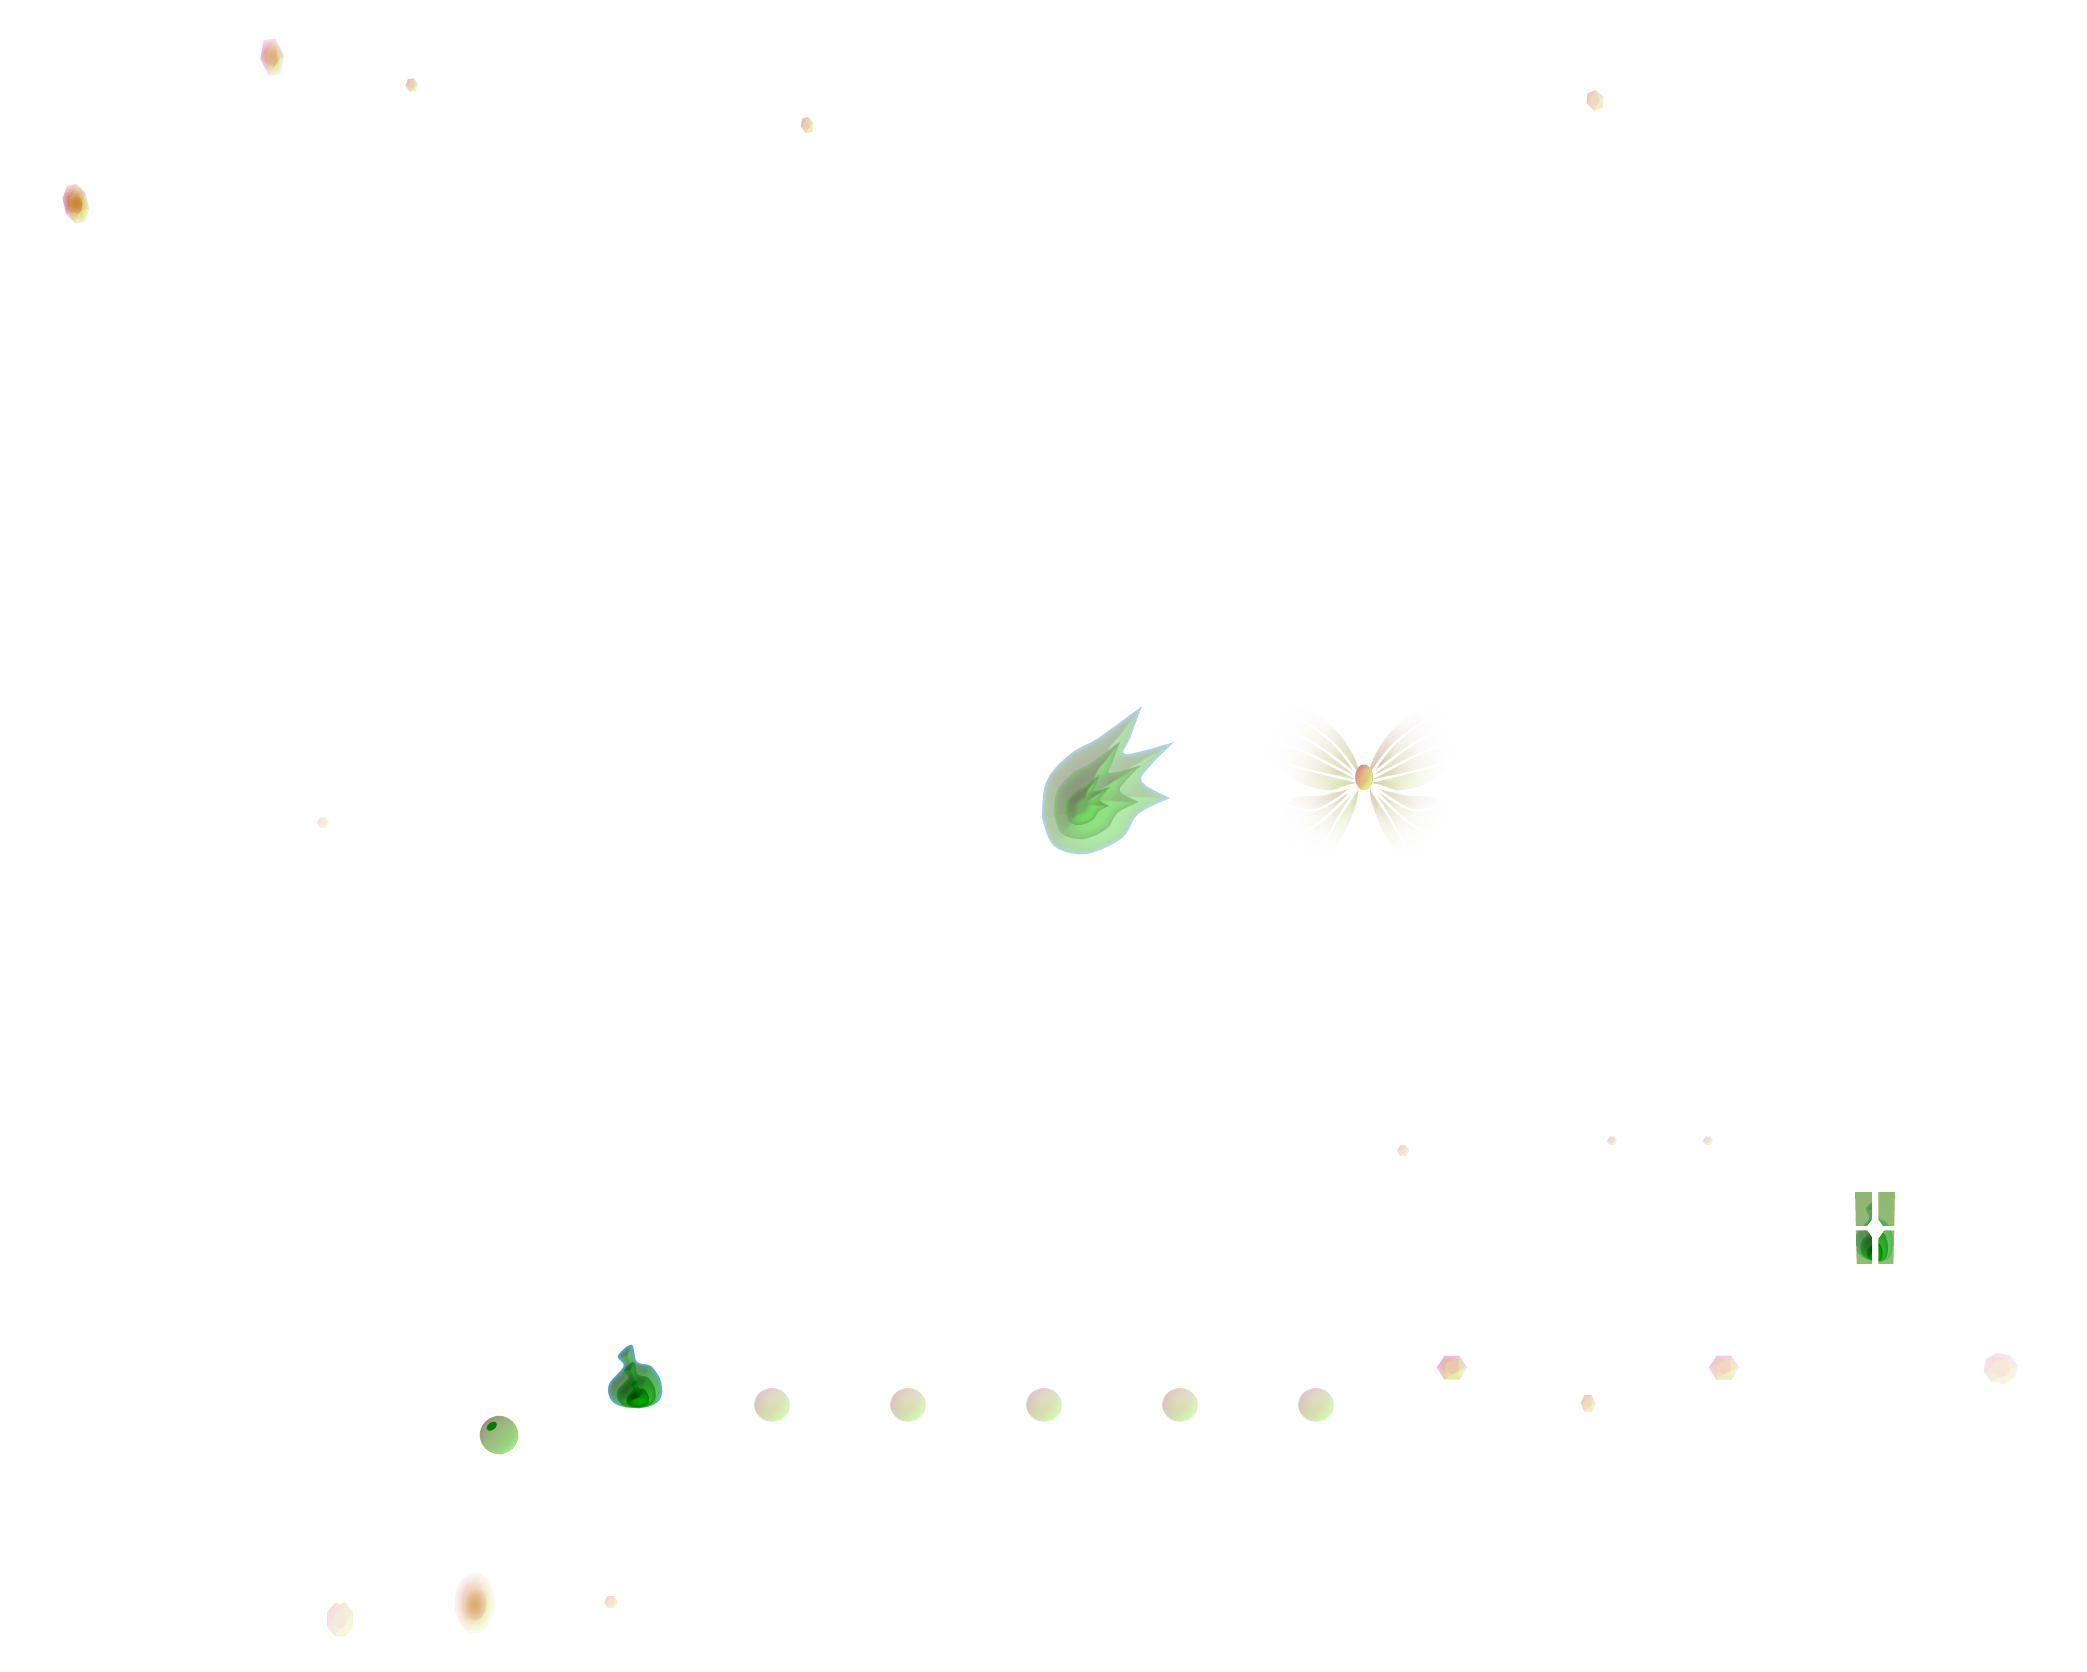
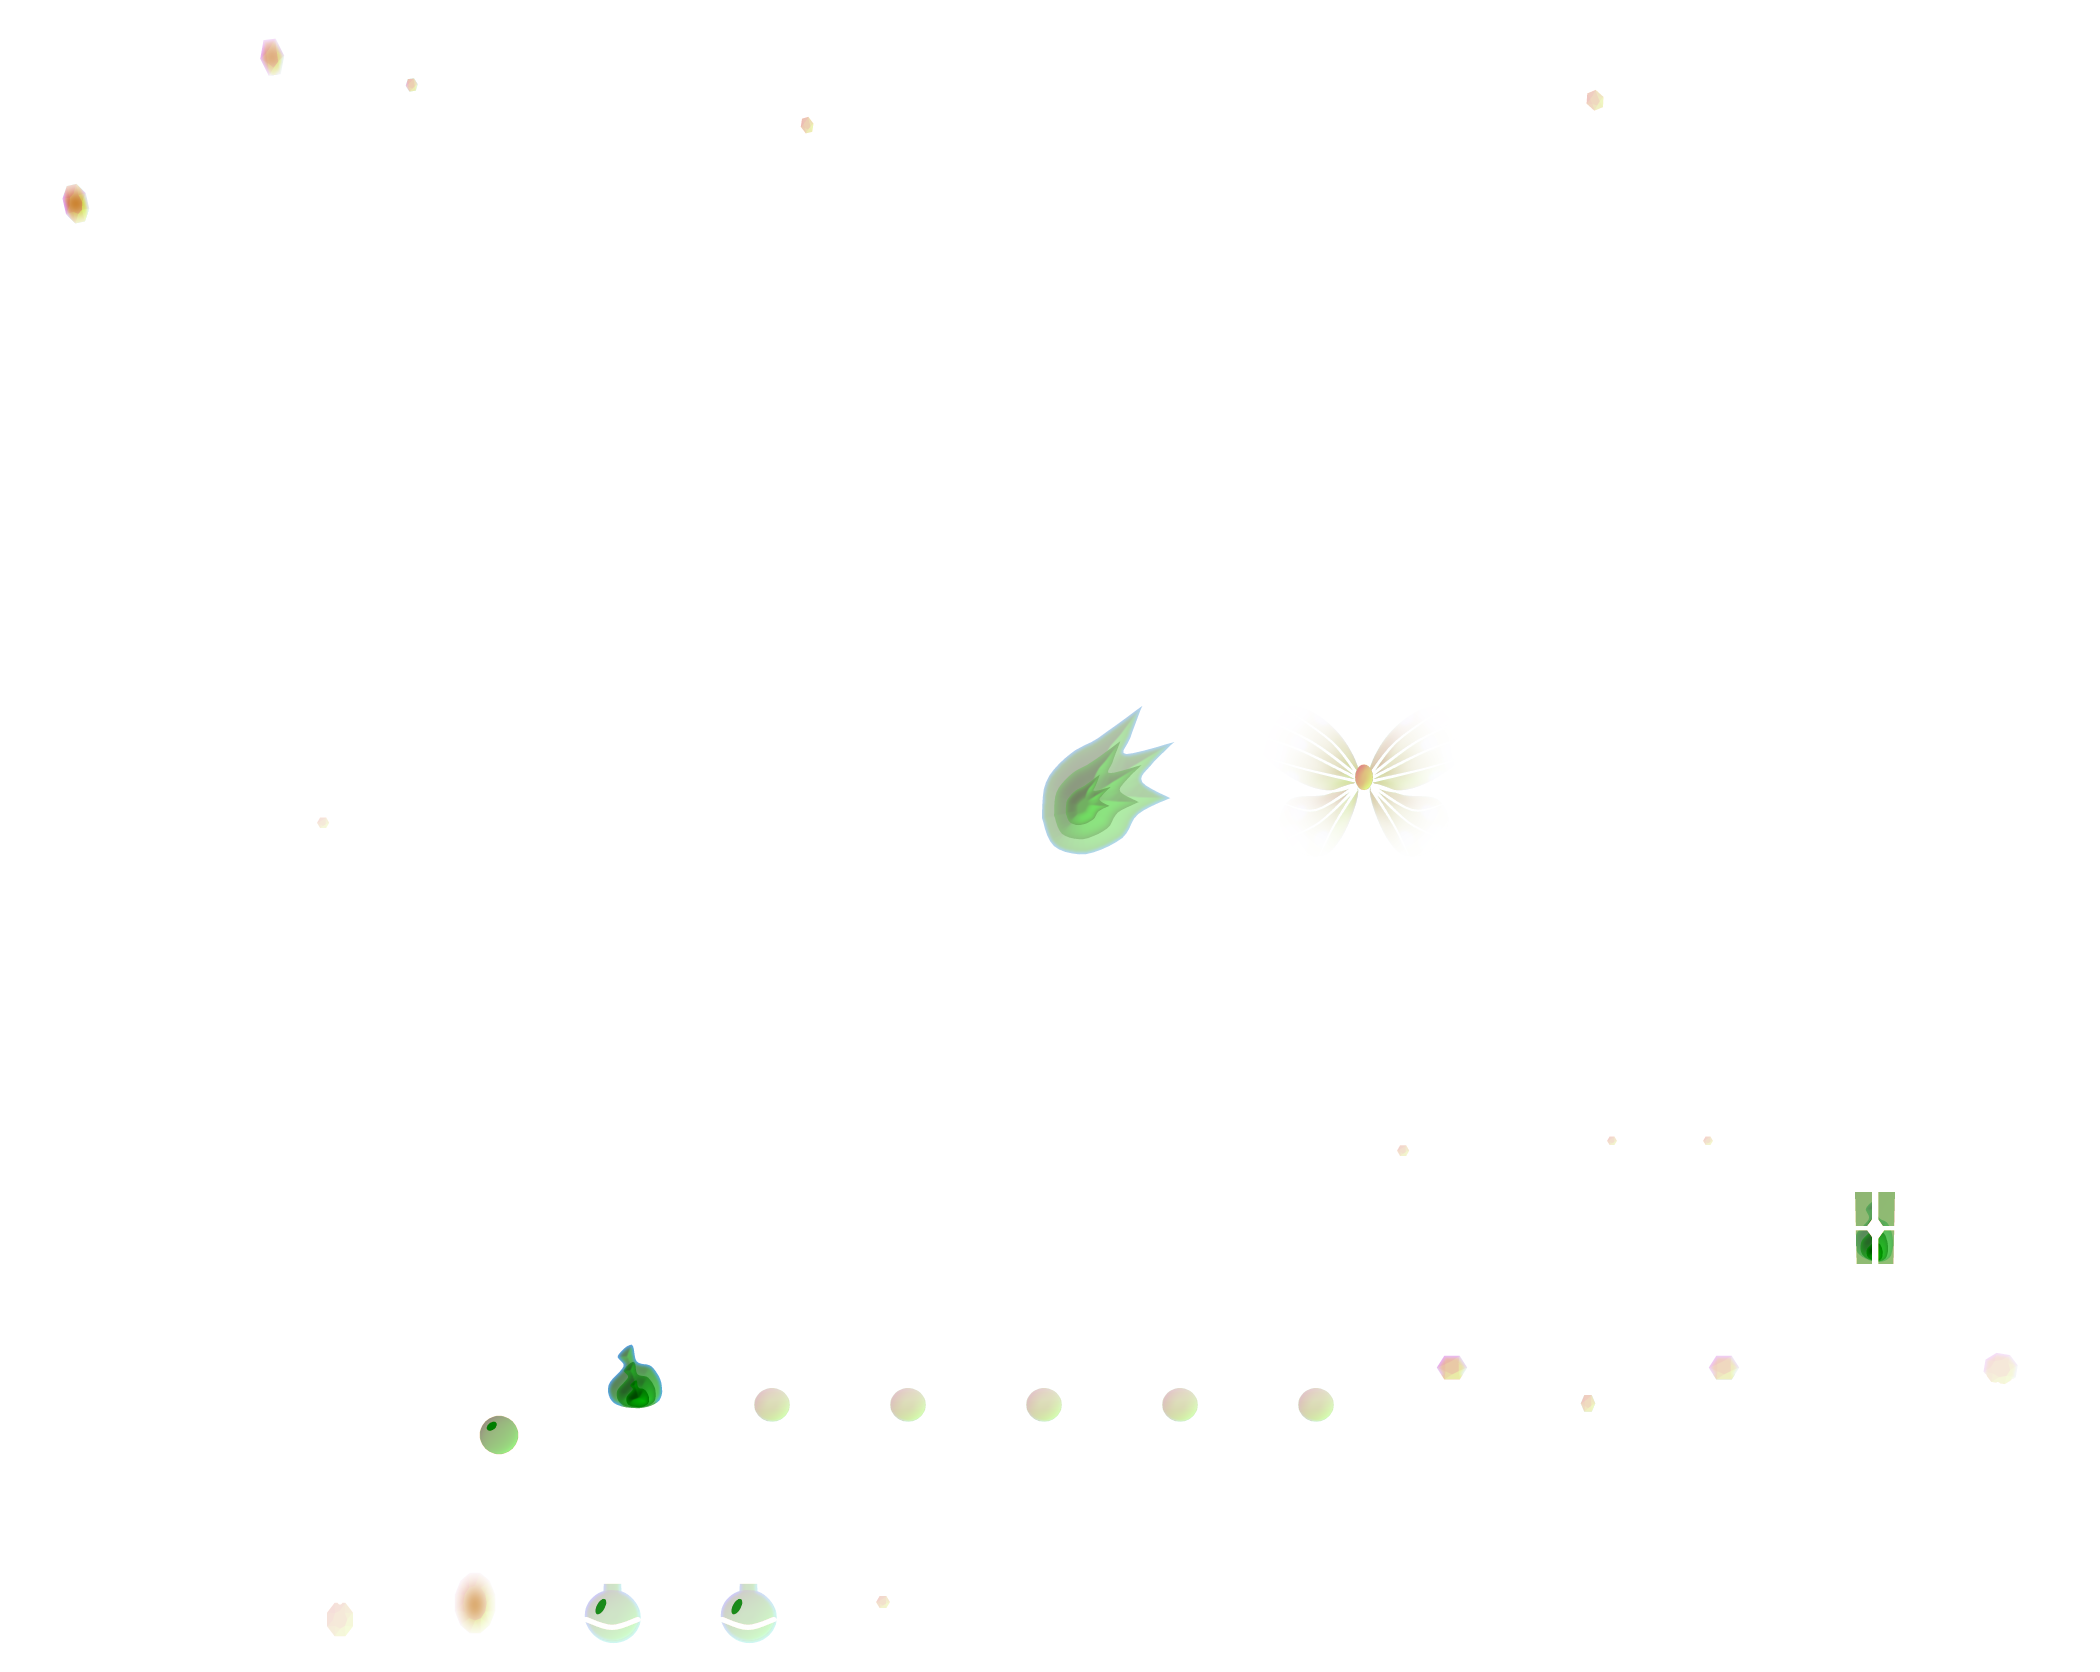
Items: union catalogue with sell prices, regenerated item atlas, Use entry through item.use
- items.json: master's 57 items plus mp's potion.health and potion.mana (59); master's five
  consumables already use mp's use shape (heal 25/40/100, mana 30/80, cooldown 320). Master's 39
  catalogue items get sell prices in line with mp's (weapons 14-32, armour 8-34, jewellery 12-18,
  draughts 2-6) so vendors buy them; starterKitVersion stays 3 (master's kit with two heal draughts).
- gen_items.py is the union (master's catalogue painters and flasks, mp's potion_flask); the atlas
  (dream/ui/items/items*.png, items.json, previews/items_icons.png) is regenerated from it, not
  hand-merged. check_items.py: 69 sprites, 0 errors; check_loader.py: 59 item keys, 0 problems.
- ImGuiFallbackInventoryTests: the bag's "Use" entry now travels as ItemUseIntent, which the test
  applies through TryConsume. This fixes the failure master had (EquipTo on a consumable).

diff --git a/dream.Tests/Rendering/Hud/ImGuiFallbackInventoryTests.cs b/dream.Tests/Rendering/Hud/ImGuiFallbackInventoryTests.cs
@@ -175,6 +175,8 @@ public sealed class ImGuiFallbackInventoryTests
                         InventoryEquipIntent e => service.TryEquip(Player, e.SlotIndex, e.TargetSlotIndex),
                         InventoryDestroyIntent d => service.TryDestroy(Player, d.SlotIndex, d.ItemInstanceId),
                         InventoryUnequipIntent u => service.TryUnequip(Player, u.SlotIndex, u.TargetCell),
+                        // A potion's "Use" entry: the item.use path consumes it (the cooldown and the pool check are the runtime's).
+                        ItemUseIntent use => service.TryConsume(Player, use.SlotIndex, use.ItemInstanceId),
                         _ => throw new InvalidOperationException("unexpected intent")
                     };
                     Assert.True(
